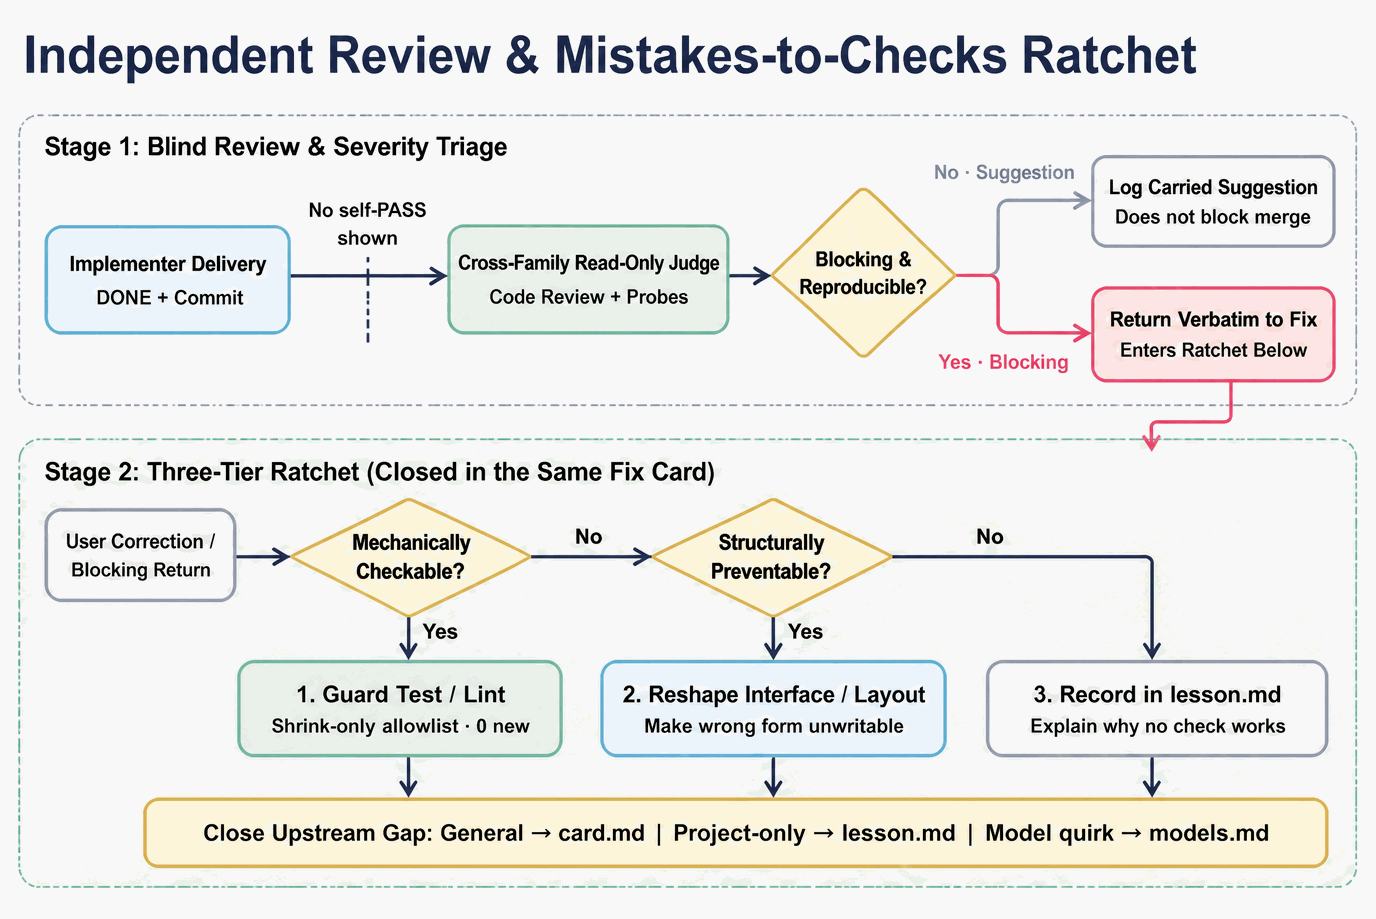
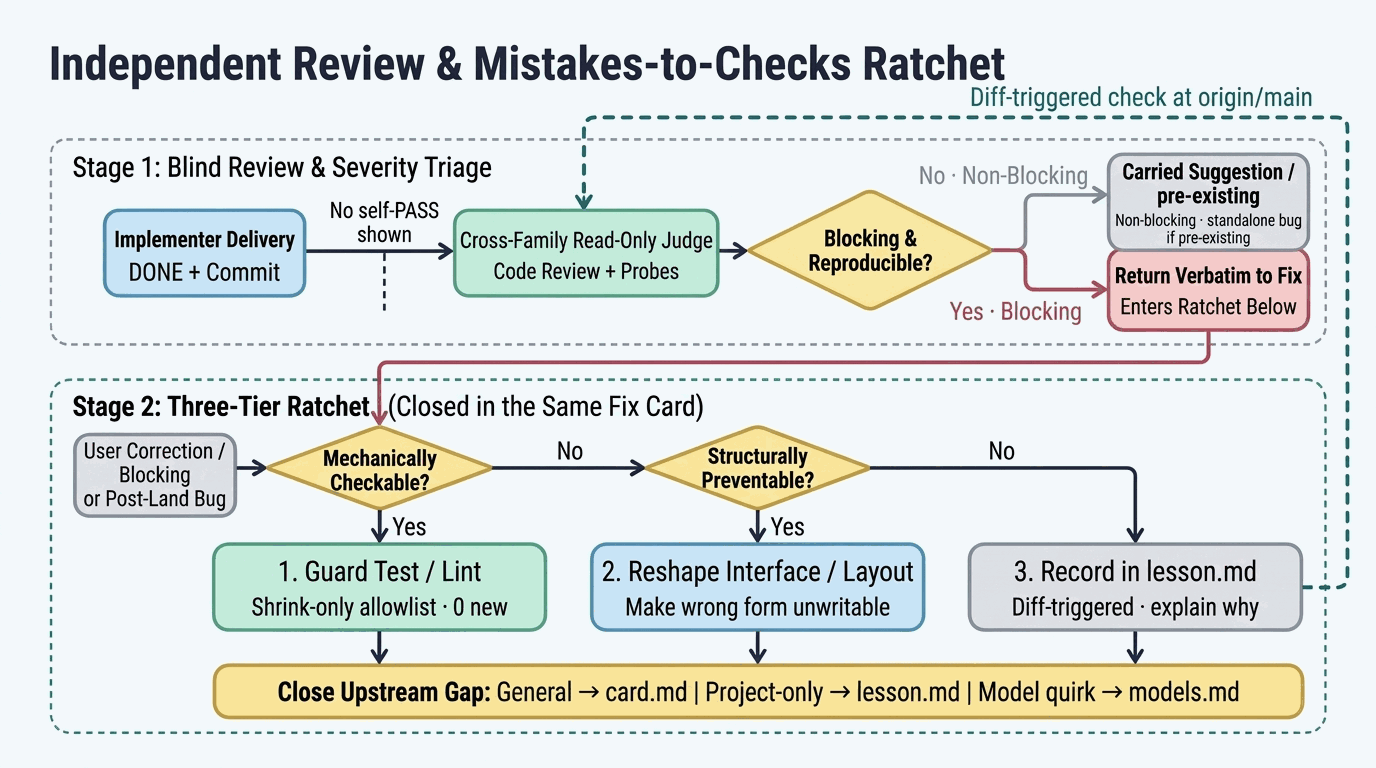
Tighten dispatch, review, and lesson rules across docs

diff --git a/README.en.md b/README.en.md
@@ -71,6 +71,8 @@ Every piece of work runs through a **7-step closed loop** (`Frame → Plan → C
 | **Complex** | Any **one-way door**; unknown platform/library behavior; concurrency, state machines, cross-module contracts; runtime state shared across cards (scroll, focus, navigation); gestures and frame timing; phase gates | Research + fact-check → plan (plus **Dual Planning** on direction forks) → **spike cards** for unknowns land first → Plan Review | **Code review** and **independent probe verification**, dispatched in parallel on the same commit |
 
 > **One-way door**: a choice costly to undo — data models, module boundaries, public interfaces, persistence formats, or a new dependency. On cards with visible UI changes the reviewer checks the screenshots, and the verifier adds a visual check only on Complex cards; non-trivial copy or interaction changes also get post-implementation advice from a copy-strong model.
+>
+> **Scheduling & no-downgrade discipline**: Dispatch follows the **dependency graph**, not milestones (launch any card whose upstream interface is fixed whenever a slot opens; milestones are reporting points, not barriers). Any edit to probe-verified code stays at least as complex as the card that verified it, and no card skips the checks its signals set. Runtime state shared across cards (scroll, focus, navigation) gets a **single owner card**, and later cards touching it are probed merged with the earlier one before landing.
 
 ### Design Bar
 
@@ -92,7 +94,7 @@ Effective multi-agent collaboration does not clone one model N times — it rout
 | **Decision** | Coordinator **Lead** | Strong model | Goal framing, complexity rating, architecture & one-way doors, card splits, falsifiable acceptance, landing calls |
 | **Judgment** | **Plan / Code Reviewer**, Independent Planner | **Cross-family** strong model (read-only) | Plan Review, Dual Planning (blind to lead's draft), blind code review, independent probe verification |
 | **Execution** | **Implementer / Verifier / Builder** | Fast mid-tier models | Card-driven UI & core logic in isolated worktrees, builds/device diagnostics, fact-checking |
-| **Clerical** | **Standing Assistant** | Low-cost standing session | Doc upkeep, card boilerplate, verifying minor suggestion fixes |
+| **Clerical** | **Standing Assistant** | Low-cost standing session | Doc upkeep, card boilerplate, verifying minor suggestion fixes & unreviewed out-of-scope check edits |
 
 Cross-project empirical notes on real model families (strengths, failure modes, card guardrails) and Paseo operational mechanics (`xhigh` vs. `max`/`ultra`, `team-lead=<project>` labels, `steer` vs. queue, remote host quirks) live in [`references/models.md`](references/models.md) and evolve with real project data.
 
@@ -100,7 +102,7 @@ Cross-project empirical notes on real model families (strengths, failure modes, 
 
 ## Task Cards and Falsifiable Acceptance
 
-A task card is the **entire contract**: the worker agent sees only the card and its worktree. A card missing any required field is never dispatched (full spec in [`references/card.md`](references/card.md)).
+A task card is the **entire contract**: the worker agent sees only the card and its worktree. A card missing any required field is never dispatched (screens sharing a data source, UI pattern, and acceptance method are one card; full spec in [`references/card.md`](references/card.md)). Review and probe verification cards use a compact **6-field fixed body** plus at most 10 card-specific lines (see [`references/review.md`](references/review.md)).
 
 ### Falsifiable Acceptance
 
@@ -157,9 +159,9 @@ All review, landing, and ratchet rules are defined in [`references/review.md`](r
 
 ### Rules of Independent Judgment
 
-- **Strictly blind & base-branch rules**: Verifier and reviewer use a **different model family** from the implementer, run in a **fresh read-only session**, and are never shown the implementer's self-assessment or `PASS`. Reviewers read `lesson.md` from `origin/main` to check diff-triggered items and verify existing check changes stay within the card's `[Scope]` list.
-- **One verdict, one commit, stamped at land**: Review cards name the exact commit hash and verdicts repeat it. Landing merges in a **temporary worktree** off `origin/main` only when branch `HEAD` matches the judged commit hash, routes unreviewed check-file edits/deletions outside `[Scope]` to the standing assistant first, and records a `Verified:` trailer (including `self`) on the merge/squash commit.
-- **Strict triage & two-round convergence**: Only issues hitting `DISPATCH` blocking criteria, violating the card's stated claim/scope (including loosening an unlisted existing check), or breaking an existing test/contract — **with a concrete trigger path** — are `Blocking`. Everything else is logged as a `Suggestion` (or tagged `pre-existing` when reproduced on `origin/main` and filed as a standalone tracker bug) and never holds up a merge. Review and probe findings on the same commit feed one fix round, forwarded verbatim; round two focuses on round-one blocking items and the incremental diff (plus callers); if blocking items remain after round two, escalate to the user with a recommendation.
+- **Strictly blind & base-branch rules**: Verifier and reviewer use a **different model family** from the implementer, run in a **fresh read-only session** via a fixed 6-field review/verification card (+ ≤10 card-specific lines), and are never shown the implementer's self-assessment or `PASS`. Reviewers read `lesson.md` from `origin/main` to check diff-triggered items and verify existing check changes stay within the card's `[Scope]` list.
+- **One verdict, one commit, stamped at land**: Review cards name the exact commit hash and verdicts repeat it. Landing merges in a **temporary worktree** off `origin/main` only when branch `HEAD` matches the judged commit hash, probes cards sharing runtime state merged before the later one lands, routes unreviewed check-file edits/deletions outside `[Scope]` to the standing assistant first, and records a `Verified:` trailer (including `self`) on the merge/squash commit.
+- **Strict triage & two-round convergence**: Only issues hitting `DISPATCH` blocking criteria, violating the card's stated claim/scope (including loosening an unlisted existing check), or breaking an existing test/contract — **with a concrete trigger path** — are `Blocking`. Everything else is logged as a `Suggestion` (or tagged `pre-existing` when reproduced on `origin/main` and filed as a standalone tracker bug) and never holds up a merge. Review and probe findings on the same commit feed one fix round, forwarded verbatim; round two returns to the original reviewer (and the original verifier only if it raised the issue, probed code changed, or it was a rewrite) focused on round-one blocking items and the incremental diff plus callers; if blocking items remain after round two, escalate to the user with a recommendation.
 
 ### Three-Tier Ratchet (Mistakes Become Checks)
 
@@ -195,7 +197,7 @@ Each fact has one home; everything else links to it. A role becomes its own file
 | **Decisions** | User decisions and one-way doors (date, choice, why) | Everyone | `docs/agents/decisions.md` |
 | **Tracker** | Active work, blockers + smallest unblock step, deferred items, carried suggestions, recently done (also handoff notes) | Lead at session start | `docs/agents/handoff.md` |
 | **Plans** | One plan per medium or complex piece of work | Plan Review, cards | `docs/plans/<slug>.md` |
-| **Dispatch / Lesson** | Project dispatch config (overrides skill defaults) & project-only pitfalls | Lead | `docs/agents/DISPATCH.md`<br>`docs/agents/lesson.md` |
+| **Dispatch / Lesson** | Project dispatch config (overrides skill defaults) & diff-triggered risk lessons | Lead (`lesson` also read by reviewers at `origin/main`) | `docs/agents/DISPATCH.md`<br>`docs/agents/lesson.md` |
 
 ---
 
@@ -250,6 +252,6 @@ team-lead/
     ├── docs.md                  # 9 project doc roles, maintenance rules, new vs. existing setup
     ├── planning.md              # Complexity ladder, research, plan structure, design bar, plan review & dual planning
     ├── card.md                  # 12-field task card template, falsifiable acceptance & delivery protocol
-    ├── review.md                # Independent review, blocking vs. suggestion, 2-round cap, landing & mistakes-to-checks
+    ├── review.md                # Fixed review/probe template, independent review, 2-round convergence, stamped landing & ratchet
     └── models.md                # Cross-project empirical model temperaments & Paseo dispatch mechanics
 ```

diff --git a/references/docs.md b/references/docs.md
@@ -14,7 +14,7 @@ Agents read the project's docs instead of guessing; a fact they need and cannot 
 | Decisions | user decisions and one-way doors: date, choice, why | everyone | next to DISPATCH: `docs/agents/decisions.md` |
 | Tracker | current; blocked, with the smallest unblocking step; deferred; suggestions carried to later cards, by area; recently done. It is also the handoff notes | lead at session start | next to DISPATCH: `docs/agents/handoff.md` |
 | Plans | one per medium or complex piece of work ([planning](planning.md#the-plan)) | plan review, cards | `docs/plans/<slug>.md` |
-| Dispatch, lesson | see [init](init.md) | lead | `docs/agents/` |
+| Dispatch, lesson | see [init](init.md) | lead (`lesson` also read by reviewer at `origin/main`) | `docs/agents/` |
 
 A role becomes a file only when it has material of its own: a small project may keep spec and architecture as sections of `AGENTS.md`, and an existing issue tracker can be the tracker.
 
